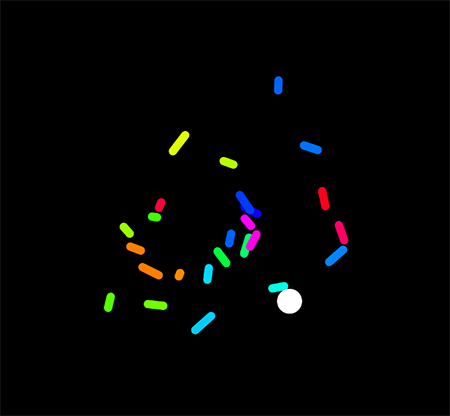
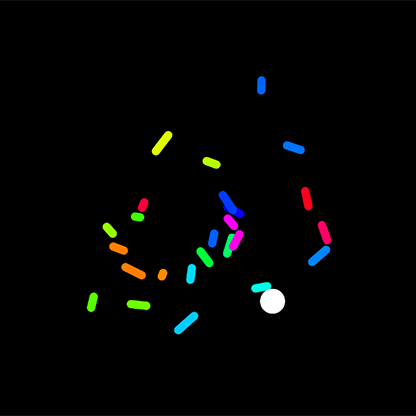
Updated images for slideshow

diff --git a/portfolio/home.html b/portfolio/home.html
@@ -58,7 +58,7 @@
 
             <img class="slideShow" src="media/boogieHomeResize.png">
             <img class="slideShow" src="media/boogieLevelResize.png">
-            <img class="slideShow" src="media/boogieLevel2.PNG">
+            <img class="slideShow" src="media/boogieLevel2Resize.PNG">
 
         </article>
         <!--
